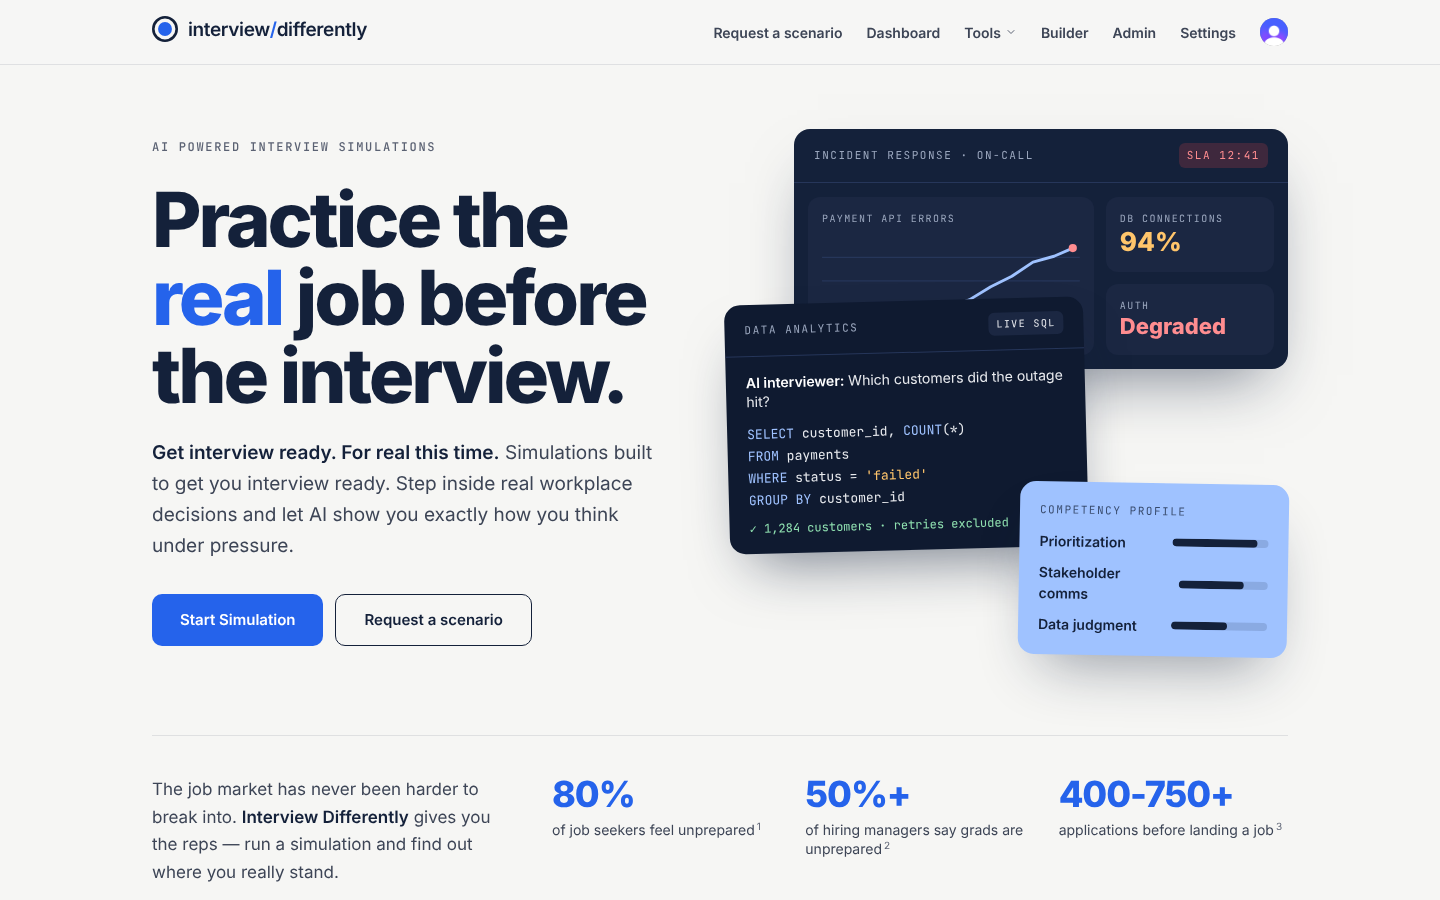
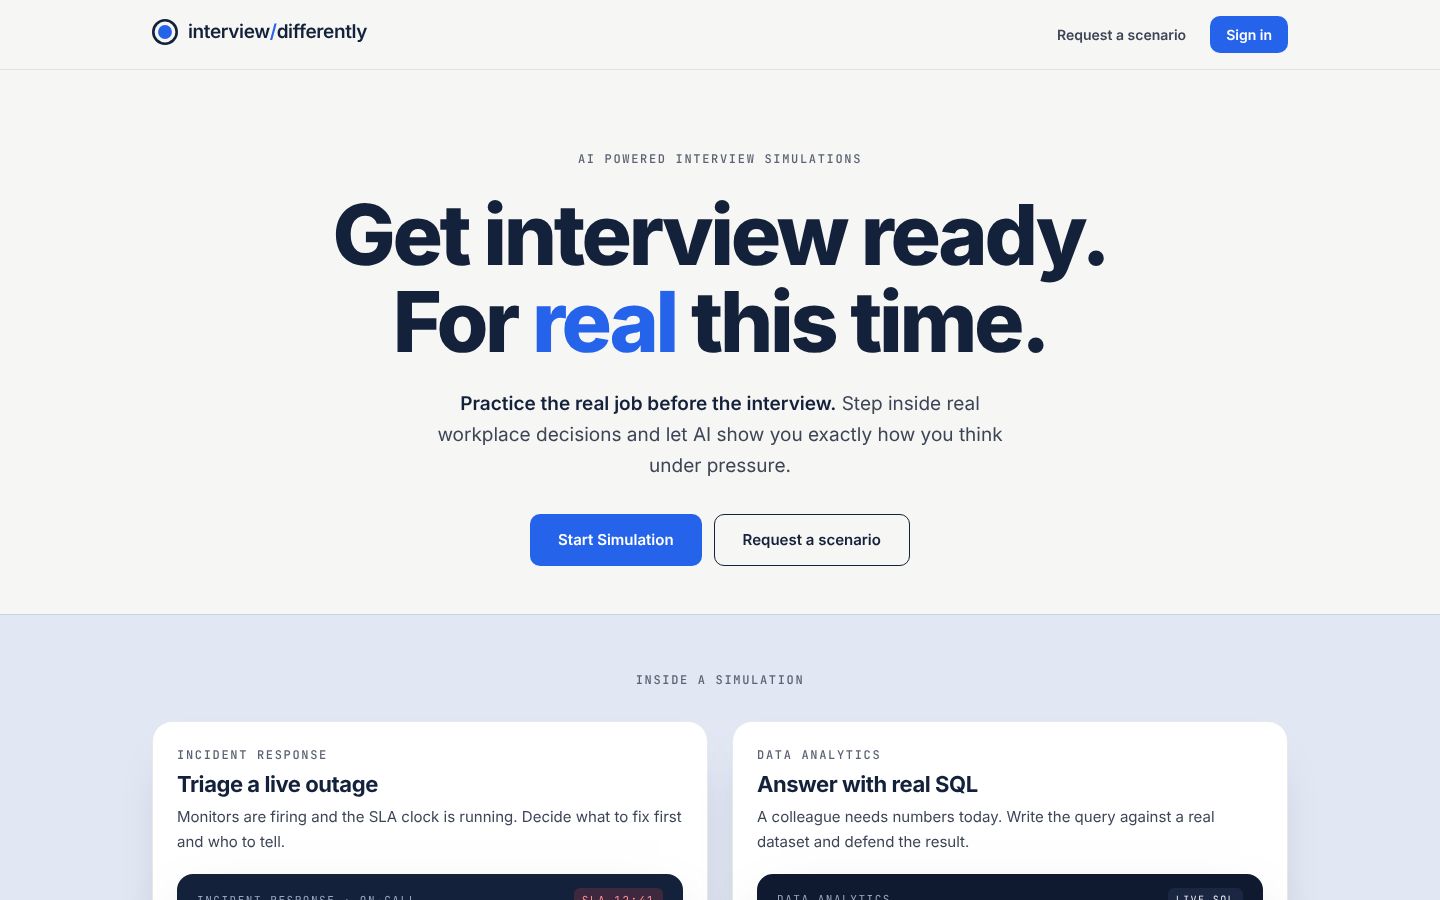
Landing: ship layout B with two scenario cards
Owner picked the centred layout. The middle band now shows two scenarios
(incident response, data analytics) as cards on a pale blue band, with a
line saying every scenario ends with a competency profile. Layout A, the
review switch and the ?design parameter are removed.

Admin lists: owner badges wrap below long titles.

Refs #104

diff --git a/apps/web/src/components/landing/Landing.tsx b/apps/web/src/components/landing/Landing.tsx
@@ -1,10 +1,7 @@
-// DESIGN EXPERIMENT (issue #104): two landing layouts behind ?design=a|b, switched with the
-// review pill (ReviewSwitch). Once the owner picks one, delete the other, the switch and the
-// parameter handling, so only the chosen layout ships. See "Design experiments" in CLAUDE.md.
 import { useNavigate } from 'react-router-dom'
 import { Nav } from '@/components/Nav'
-import { ReviewSwitch } from '@/components/ReviewSwitch'
-import { HeroScene, IncidentPanel, SqlPanel, CompetencyCard } from './HeroScene'
+import { BarChart3 } from 'lucide-react'
+import { IncidentPanel, SqlPanel } from './ScenePanels'
 
 const STATS = [
   { num: '80%', label: 'of job seekers feel unprepared', footnote: 1 },
@@ -95,47 +92,67 @@ function Ctas({ center = false }: { center?: boolean }) {
   )
 }
 
-/** A: the brand hero. Headline left, the panel scene right, stats under the copy. */
-function LandingA() {
-  return (
-    <main className="max-w-[1200px] mx-auto w-full px-4 sm:px-8 pt-12 sm:pt-16 pb-16">
-      <div className="grid lg:grid-cols-[1fr_1.05fr] gap-12 lg:gap-10 items-center">
-        <div className="animate-fade-in">
-          <p className={`${kicker} mb-6`}>AI Powered Interview Simulations</p>
-          <h1 className={`${headline} text-[clamp(44px,6.4vw,76px)] mb-6`}>
-            Practice the <span className="text-primary">real</span> job before the interview.
-          </h1>
-          <p className="text-[19px] text-slate-light leading-relaxed max-w-[520px] mb-8">
-            <strong className="font-semibold text-fg">
-              Get interview ready. For real this time.
-            </strong>{' '}
-            Step inside real workplace decisions and let AI show you exactly how you think under
-            pressure.
-          </p>
-          <Ctas />
-        </div>
-        <HeroScene className="max-w-[620px] w-full mx-auto lg:mx-0" />
-      </div>
+const SCENARIOS = [
+  {
+    kicker: 'Incident response',
+    title: 'Triage a live outage',
+    body: 'Monitors are firing and the SLA clock is running. Decide what to fix first and who to tell.',
+    panel: <IncidentPanel />,
+    label:
+      'Example incident response console: payment API errors climbing, database connections at 94%, auth degraded.',
+  },
+  {
+    kicker: 'Data analytics',
+    title: 'Answer with real SQL',
+    body: 'A colleague needs numbers today. Write the query against a real dataset and defend the result.',
+    panel: <SqlPanel />,
+    label:
+      'Example data analytics question: the AI interviewer asks which customers the outage hit, answered with a SQL query.',
+  },
+]
 
-      <section aria-label="Why practice" className="mt-20 pt-10 border-t border-edge/10">
-        <div className="grid lg:grid-cols-[1fr_2fr] gap-8 items-start">
-          <p className="text-[17px] text-slate-light leading-relaxed">
-            The job market has never been harder to break into.{' '}
-            <span className="font-semibold text-fg">Interview Differently</span> gives you the reps
-            — run a simulation and find out where you really stand.
-          </p>
-          <Stats />
+/** Two example scenarios, each a card with its live screen, on a pale blue band. */
+function Scenarios() {
+  return (
+    <section
+      aria-labelledby="scenarios-heading"
+      className="bg-primary-pale border-y border-edge/10"
+    >
+      <div className="max-w-[1200px] mx-auto px-4 sm:px-8 py-14">
+        <h2 id="scenarios-heading" className={`${kicker} text-center mb-8`}>
+          Inside a simulation
+        </h2>
+        <div className="grid md:grid-cols-2 gap-6">
+          {SCENARIOS.map((s) => (
+            <article
+              key={s.kicker}
+              className="bg-surface-alt rounded-[20px] border border-edge/10 p-5 sm:p-6 shadow-[0_24px_48px_-28px_rgba(20,33,58,0.35)] flex flex-col"
+            >
+              <p className={kicker}>{s.kicker}</p>
+              <h3 className="font-display font-bold text-[22px] text-fg tracking-[-0.02em] mt-1">
+                {s.title}
+              </h3>
+              <p className="text-[15px] text-slate-light leading-relaxed mt-1 mb-5">{s.body}</p>
+              <div role="img" aria-label={s.label} className="flex-1 flex flex-col [&>*]:flex-1">
+                {s.panel}
+              </div>
+            </article>
+          ))}
         </div>
-        <div className="mt-8">
-          <Sources />
-        </div>
-      </section>
-    </main>
+        <p className="mt-8 flex items-center justify-center gap-2 text-[15px] text-slate-light text-center">
+          <BarChart3 size={18} className="text-primary shrink-0" aria-hidden="true" />
+          <span>
+            <span className="font-semibold text-fg">Every scenario ends with feedback:</span> a
+            competency profile that shows how you think, not just what you chose.
+          </span>
+        </p>
+      </div>
+    </section>
   )
 }
 
-/** B: centred statement, then the panels laid out side by side on an ink stage, stats on paper. */
-function LandingB() {
+/** The landing page: centred statement, two example scenarios, then the stats. */
+export function Landing() {
   return (
     <main className="w-full">
       <section className="max-w-[1000px] mx-auto px-4 sm:px-8 pt-14 sm:pt-20 pb-12 text-center animate-fade-in">
@@ -155,31 +172,7 @@ function LandingB() {
         <Ctas center />
       </section>
 
-      <section
-        aria-label="Example simulation screens"
-        className="bg-[#14213a] border-y border-[#26365a]"
-      >
-        <div className="max-w-[1200px] mx-auto px-4 sm:px-8 py-12 grid md:grid-cols-3 gap-5 items-start">
-          <div>
-            <p className="font-mono text-[11px] uppercase tracking-[0.14em] text-[#9aa6bd] mb-3">
-              01 · Live dashboards
-            </p>
-            <IncidentPanel className="ring-1 ring-[#26365a]" />
-          </div>
-          <div>
-            <p className="font-mono text-[11px] uppercase tracking-[0.14em] text-[#9aa6bd] mb-3">
-              02 · Real SQL
-            </p>
-            <SqlPanel className="ring-1 ring-[#26365a]" />
-          </div>
-          <div>
-            <p className="font-mono text-[11px] uppercase tracking-[0.14em] text-[#9aa6bd] mb-3">
-              03 · Scored feedback
-            </p>
-            <CompetencyCard />
-          </div>
-        </div>
-      </section>
+      <Scenarios />
 
       <section className="max-w-[1000px] mx-auto px-4 sm:px-8 py-14 text-center">
         <p className="text-[17px] text-slate-light leading-relaxed max-w-[560px] mx-auto mb-10">
@@ -196,21 +189,11 @@ function LandingB() {
   )
 }
 
-export function LandingExperiment() {
-  const design = new URLSearchParams(window.location.search).get('design') === 'b' ? 'b' : 'a'
+export function LandingShell() {
   return (
     <div className="min-h-screen bg-surface flex flex-col">
       <Nav />
-      {design === 'b' ? <LandingB /> : <LandingA />}
-      <ReviewSwitch
-        param="design"
-        label="Landing layout"
-        current={design}
-        options={[
-          { key: 'a', label: 'A · Split hero' },
-          { key: 'b', label: 'B · Centred + stage' },
-        ]}
-      />
+      <Landing />
     </div>
   )
 }

diff --git a/apps/web/src/components/landing/ScenePanels.tsx b/apps/web/src/components/landing/ScenePanels.tsx
@@ -1,8 +1,8 @@
 /**
- * The landing hero scene: three simulation panels floating on paper (an incident console, a live
- * SQL question from the AI interviewer and a competency profile), rebuilt as HTML from the brand
- * kit so it stays sharp and readable. The scenario content is illustrative. Decorative for screen
- * readers apart from one summary label. Standalone only, so the brand values are written directly.
+ * The two example simulation screens on the landing page (an incident console and a live SQL
+ * question from the AI interviewer), rebuilt as HTML from the brand kit so they stay sharp and
+ * readable. The scenario content is illustrative. Standalone only, so the brand values are written
+ * directly.
  */
 
 const mono = 'font-mono uppercase tracking-[0.14em]'
@@ -10,7 +10,7 @@ const mono = 'font-mono uppercase tracking-[0.14em]'
 export function IncidentPanel({ className = '' }: { className?: string }) {
   return (
     <div
-      className={`rounded-[16px] bg-[#14213a] text-[#e8eaee] shadow-[0_30px_60px_-24px_rgba(20,33,58,0.55)] ${className}`}
+      className={`flex flex-col rounded-[16px] bg-[#14213a] text-[#e8eaee] shadow-[0_30px_60px_-24px_rgba(20,33,58,0.55)] ${className}`}
     >
       <div className="flex items-center justify-between px-5 py-3.5 border-b border-[#26365a]">
         <span className={`${mono} text-[11px] text-[#9aa6bd]`}>Incident response · On-call</span>
@@ -25,6 +25,11 @@ export function IncidentPanel({ className = '' }: { className?: string }) {
             {[20, 40, 60].map((y) => (
               <line key={y} x1="0" x2="220" y1={y} y2={y} stroke="#26365a" strokeWidth="1" />
             ))}
+            <polygon
+              points="0,80 0,68 18,66 36,69 54,65 72,67 90,64 108,63 126,56 144,45 162,36 180,24 198,19 214,12 214,80"
+              fill="#9fc2ff"
+              fillOpacity="0.14"
+            />
             <polyline
               points="0,68 18,66 36,69 54,65 72,67 90,64 108,63 126,56 144,45 162,36 180,24 198,19 214,12"
               fill="none"
@@ -50,6 +55,19 @@ export function IncidentPanel({ className = '' }: { className?: string }) {
           </div>
         </div>
       </div>
+      <ul className="flex-1 mx-3.5 mb-3.5 rounded-[12px] bg-[#1b2742] px-3.5 py-2 font-mono text-[12px] divide-y divide-[#26365a]">
+        {[
+          ['14:44', 'payments-api', '5xx rate above 10%', 'text-[#ff8d90]'],
+          ['14:43', 'auth', 'p95 latency +340ms', 'text-[#ff8d90]'],
+          ['14:41', 'postgres', 'connection pool at 94%', 'text-[#ffc56b]'],
+        ].map(([t, svc, msg, tone]) => (
+          <li key={t} className="flex gap-3 py-1.5">
+            <span className="text-[#9aa6bd]">{t}</span>
+            <span className={tone}>{svc}</span>
+            <span className="text-[#c9d1df] truncate">{msg}</span>
+          </li>
+        ))}
+      </ul>
     </div>
   )
 }
@@ -79,53 +97,30 @@ export function SqlPanel({ className = '' }: { className?: string }) {
           {'\n'}
           <span className={kw}>GROUP BY</span> customer_id
         </pre>
+        <table className="w-full mt-3 font-mono text-[12px] text-[#c9d1df] border-t border-[#26365a]">
+          <thead>
+            <tr className="text-[#9aa6bd] text-left">
+              <th className="font-normal py-1.5">customer_id</th>
+              <th className="font-normal py-1.5 text-right">failed</th>
+            </tr>
+          </thead>
+          <tbody>
+            {[
+              ['C-10482', 7],
+              ['C-20917', 5],
+              ['C-31205', 4],
+            ].map(([id, n]) => (
+              <tr key={id} className="border-t border-[#1b2742]">
+                <td className="py-1">{id}</td>
+                <td className="py-1 text-right text-[#ffc56b]">{n}</td>
+              </tr>
+            ))}
+          </tbody>
+        </table>
         <p className="font-mono text-[12px] text-[#8fe0b0] mt-2">
           ✓ 1,284 customers · retries excluded
         </p>
       </div>
-    </div>
-  )
-}
-
-export function CompetencyCard({ className = '' }: { className?: string }) {
-  const rows = [
-    ['Prioritization', 88],
-    ['Stakeholder comms', 72],
-    ['Data judgment', 58],
-  ] as const
-  return (
-    <div
-      className={`rounded-[16px] bg-[#9fc2ff] text-[#14213a] p-5 shadow-[0_30px_60px_-24px_rgba(20,33,58,0.45)] ${className}`}
-    >
-      <p className={`${mono} text-[11px] text-[#14213a]/75 mb-3`}>Competency profile</p>
-      <div className="flex flex-col gap-2.5">
-        {rows.map(([label, pct]) => (
-          <div key={label} className="flex items-center justify-between gap-4">
-            <span className="font-semibold text-[14px]">{label}</span>
-            <span className="w-[42%] h-2 rounded-full bg-[#14213a]/15 overflow-hidden">
-              <span
-                className="block h-full rounded-full bg-[#14213a]"
-                style={{ width: `${pct}%` }}
-              />
-            </span>
-          </div>
-        ))}
-      </div>
-    </div>
-  )
-}
-
-/** The three panels overlapped, as in the brand hero. */
-export function HeroScene({ className = '' }: { className?: string }) {
-  return (
-    <div
-      role="img"
-      aria-label="Example simulation screens: an incident response console, a live SQL question from the AI interviewer and a competency profile."
-      className={`relative ${className}`}
-    >
-      <IncidentPanel className="relative w-full sm:w-[88%] ml-auto" />
-      <SqlPanel className="relative w-full sm:w-[64%] mt-4 sm:-mt-[12%] sm:-rotate-[1.5deg] z-10" />
-      <CompetencyCard className="relative w-full sm:w-[48%] ml-auto mt-4 sm:-mt-[12%] sm:rotate-[1deg] z-20" />
     </div>
   )
 }

diff --git a/apps/web/src/pages/AdminAssessmentsPage.tsx b/apps/web/src/pages/AdminAssessmentsPage.tsx
@@ -182,7 +182,7 @@ export function AdminAssessmentsPage() {
                           : 'border border-transparent hover:bg-ink/5'
                       }`}
                     >
-                      <p className="text-[13px] font-semibold text-fg flex items-center gap-2">
+                      <p className="text-[13px] font-semibold text-fg flex flex-wrap items-center gap-x-2 gap-y-1">
                         {a.title}
                         <OwnerBadge institutionName={a.institutionName} />
                       </p>

diff --git a/apps/web/src/pages/AdminDatasetsPage.tsx b/apps/web/src/pages/AdminDatasetsPage.tsx
@@ -126,7 +126,7 @@ export function AdminDatasetsPage() {
                           : 'border border-transparent hover:bg-ink/5'
                       }`}
                     >
-                      <p className="text-[13px] font-semibold text-fg flex items-center gap-2">
+                      <p className="text-[13px] font-semibold text-fg flex flex-wrap items-center gap-x-2 gap-y-1">
                         {d.name}
                         <OwnerBadge institutionName={d.institutionName} />
                       </p>

diff --git a/apps/web/src/pages/LandingPage.tsx b/apps/web/src/pages/LandingPage.tsx
@@ -1,5 +1,5 @@
-import { LandingExperiment } from '@/components/landing/LandingExperiment'
+import { LandingShell } from '@/components/landing/Landing'
 
 export function LandingPage() {
-  return <LandingExperiment />
+  return <LandingShell />
 }
